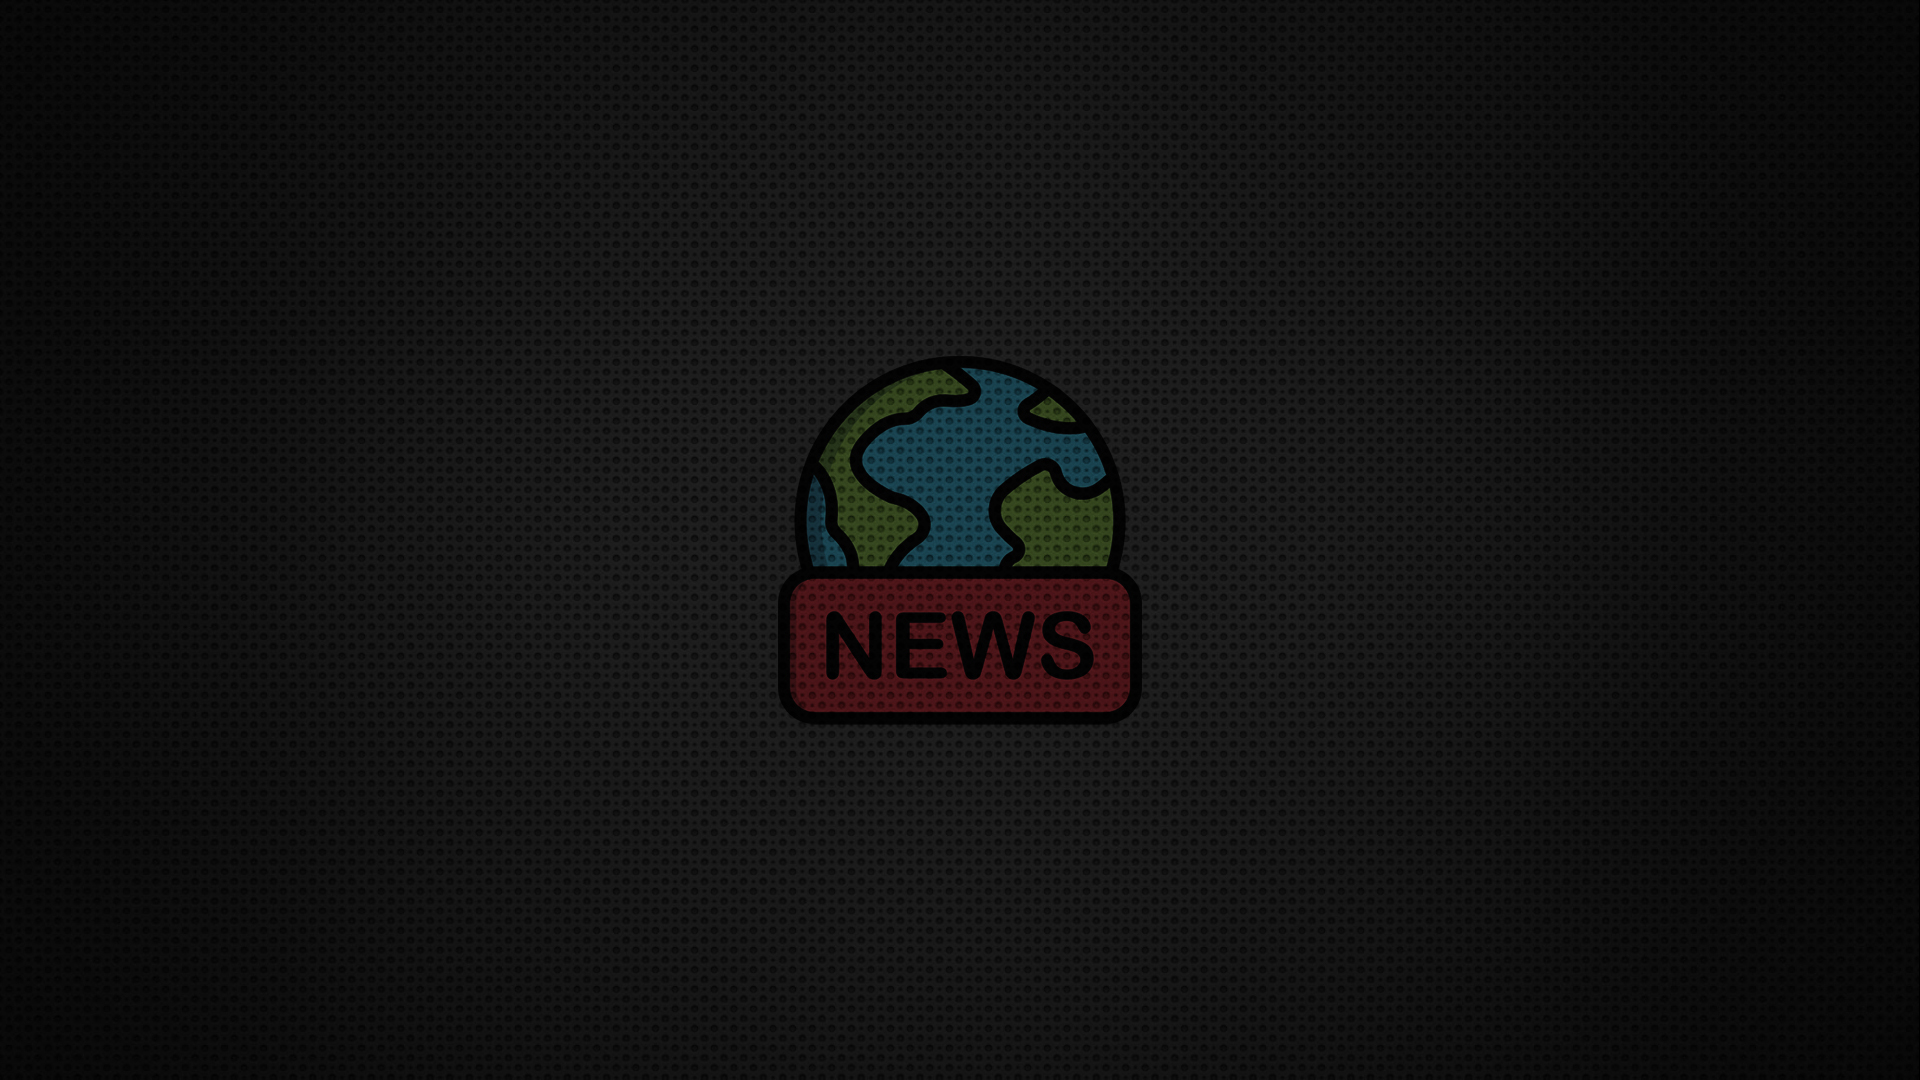
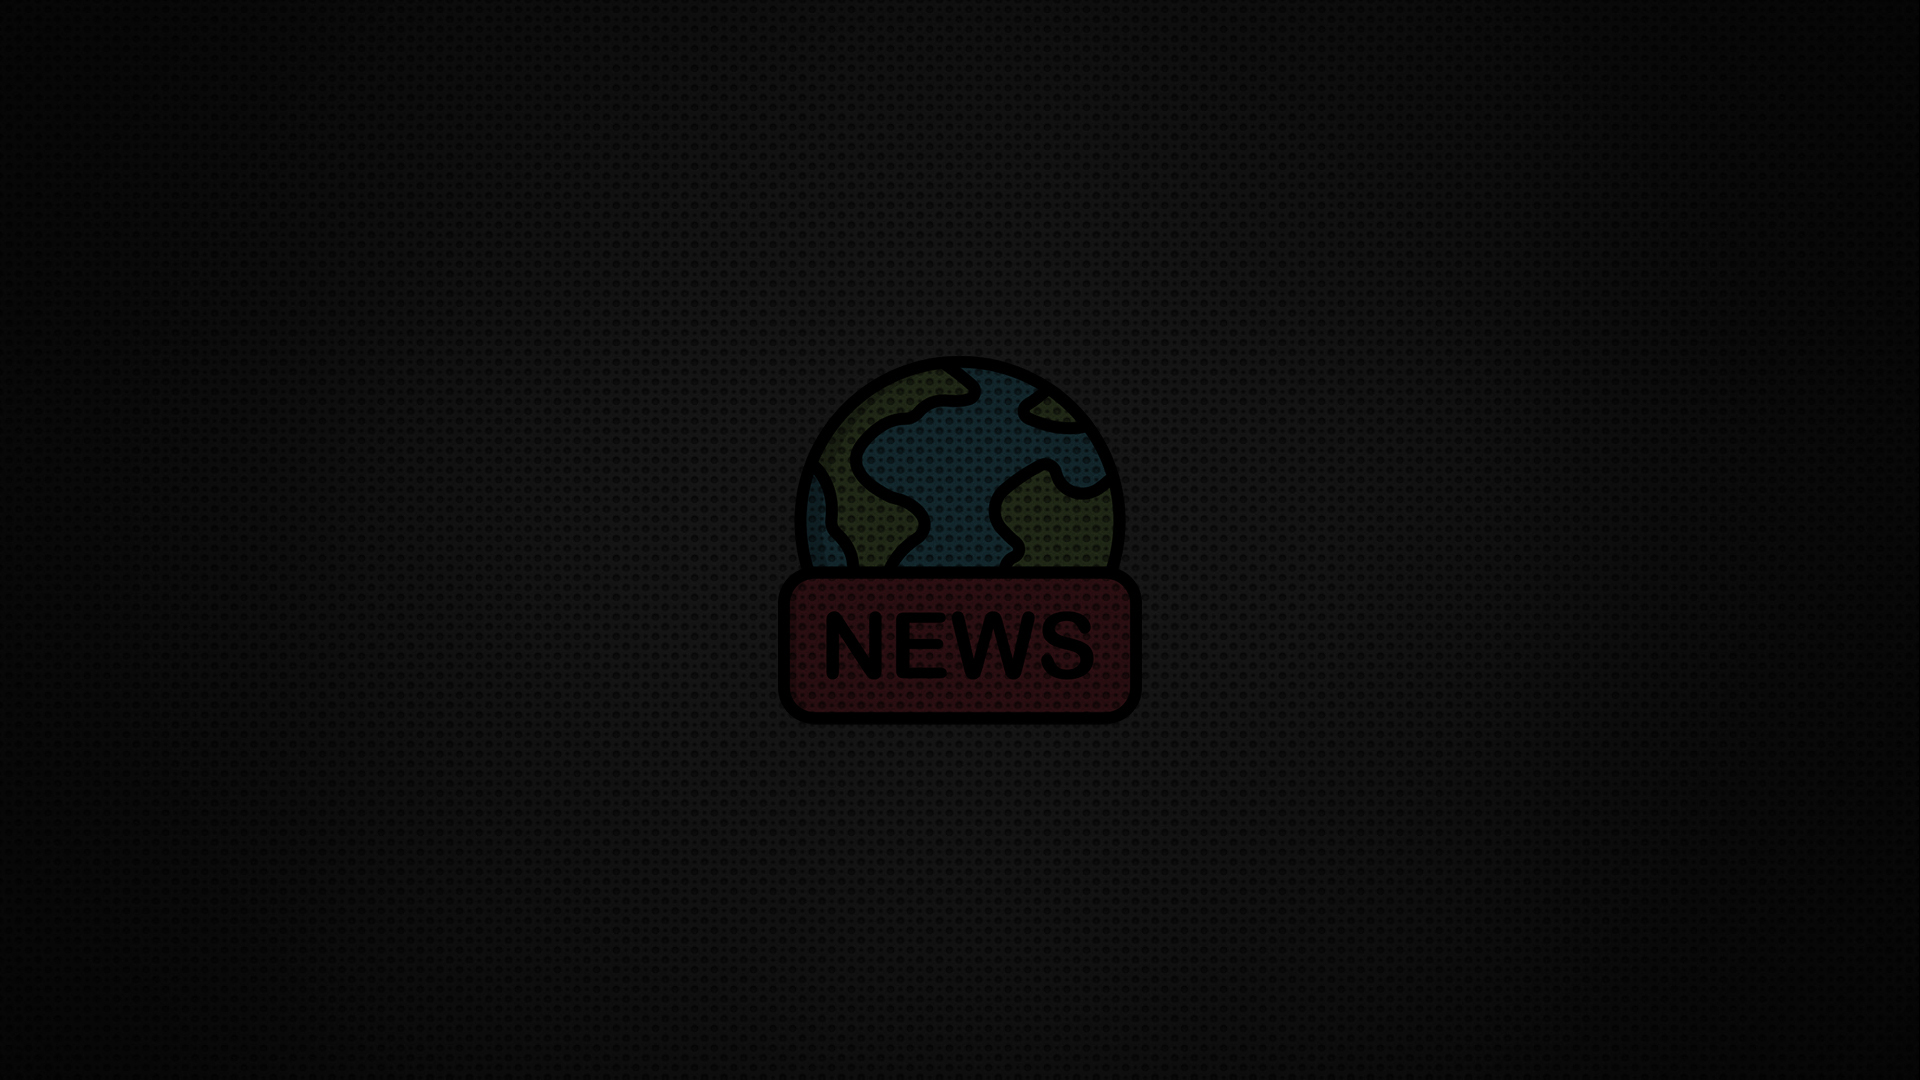
Added GUI changes to css

Changed region(s): [[0.4062, 0.3361, 0.5938, 0.6722]]

diff --git a/src/main/resources/css/darkmode.css b/src/main/resources/css/darkmode.css
@@ -18,7 +18,7 @@
 }
 
 .backanchormain {
-    -fx-background-image: url('../images/darkBackground.jpg');
+    -fx-background-image: url('../images/darkBackground_2.jpg');
     -fx-background-size: contain;                               /* alignment of background */
 }
 
@@ -39,7 +39,8 @@
 .tvNews {
     -fx-background-color: transparent;         /* background color of tableview */
     -fx-light-text-color: #5d00ff;           /* color when clicking on cell */
-    -fx-mid-text-color:   white ;             /* color when just showing the cell */
+    -fx-mid-text-color: white ;             /* color when just showing the cell */
+    -fx-border-color: white;
 
 }
 
@@ -57,6 +58,12 @@
 
 .table-view .column-header, .table-view .filler {
     -fx-background-color: transparent;          /* background of the top of the tableview (title, author) */
-    -fx-mid-text-color: white ;                 /* color of the top of the tableview (title, author) */
+    -fx-mid-text-color: #5d00ff ;                 /* color of the top of the tableview (title, author) */
 
+}
+
+.lblHeadLines{
+    -fx-text-fill: #5d00ff;
+    -fx-font-weight: bold;
+    -fx-font-size: 16;
 }

diff --git a/src/main/resources/css/lightmode.css b/src/main/resources/css/lightmode.css
@@ -15,7 +15,7 @@
 .buttonlogo {
     -fx-background-image: url('../images/world-news.png');
     -fx-background-size: stretch;
-    -fx-background-color: #2F2B43;
+    -fx-background-color: #393351;
 }
 
 .backanchormain {
@@ -30,7 +30,7 @@
 
 
 .topanchor {
-    -fx-background-color: #2F2B43;
+    -fx-background-color: #393351;
 }
 
 .vboxleftside {
